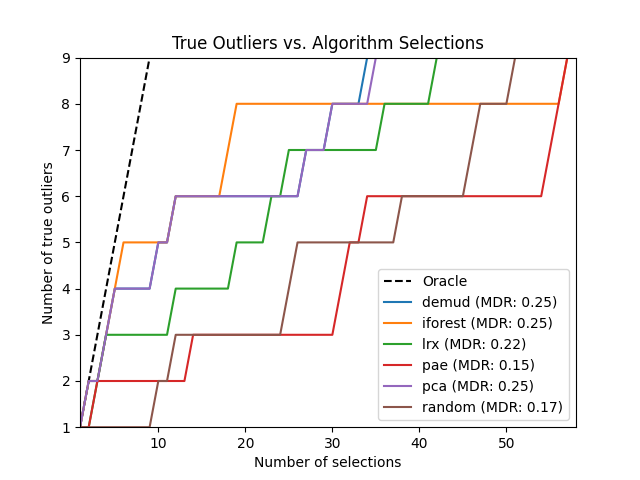
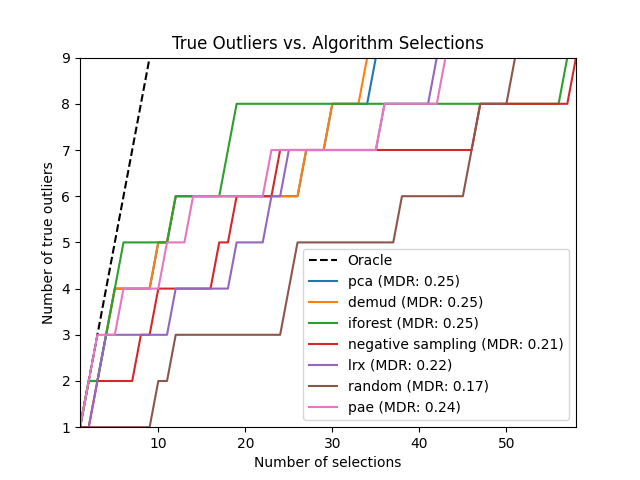
Update PAE results and figure for planetary rover (#13,#60).

diff --git a/publications/iaai21/dora_outlier_detection_iaai.tex b/publications/iaai21/dora_outlier_detection_iaai.tex
@@ -544,7 +544,7 @@ AUC. \todo{For completeness, Explain why no LRX here.}
     \hline
     Isolation Forest  & & 0.46 & \textbf{0.56} \\
     \hline
-    PAE               & & 0.41 & 0.22 \\
+    PAE               & & 0.41 & 0.44 \\
     Neg. Sampling & & \textbf{0.49} & 0.33 \\
     \hline
     Random            & & 0.32 & 0.11 \\
